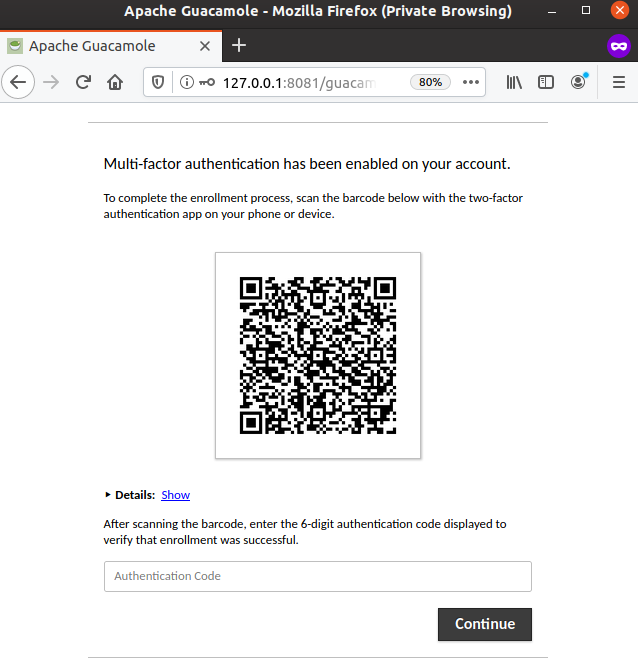
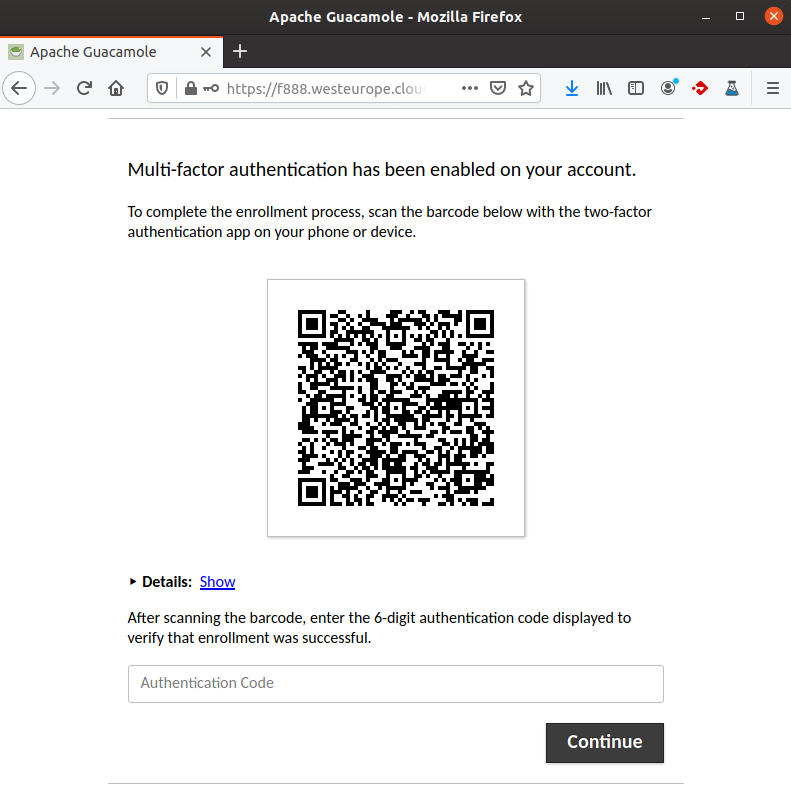
Updated README and change screenshots

diff --git a/README.md b/README.md
@@ -1,7 +1,7 @@
 
 # WorkFromHome-with-inlets
 
-*"Navigate in any webbrowser to https://desktops.yourcompany.com and logon with your corporate Active Directory account (including 2-FA) to access your Windows desktops"*  
+*"Navigate in any webbrowser to [https://yourcompany.westeurope.cloudapp.azure.com](https://yourcompany.westeurope.cloudapp.azure.com) and logon with your corporate Active Directory account (including 2-FA) to access your Windows desktops"*  
 
 If you want your users to be able to access for example Windows PCs or Windows RDS, which are located on your corporate network from anywhere in the world using any HTML5 capable webbrowser, then this is right for.   
 If your are a homelab enthusiast and want your homelab to be accessible from any where from any device using HTML5, then this maybe worth to have a look.
@@ -67,9 +67,6 @@ sudo -s
 Point your preferred webbrowser to the DNS host name, which you have configured as `FQDN_HOST_NAME` in your .env file. 
 Example: [https://yourcompany.westeurope.cloudapp.azure.com](https://yourcompany.westeurope.cloudapp.azure.com)  
 The default username is `guacadmin` and password is `guacadmin`. 
-
-(If you currently can not access your external `FQDN_HOST_NAME` from internally, you can verify it from internally using http://ubuntu-internal-ip:8081/guacamole   
-Alternatively add a hosts file entry, which points your `FQDN_HOST_NAME` to the internal IP of your Ubuntu Server -> [Beginner-Guide-to-edit-your-hosts-file](https://www.howtogeek.com/howto/27350/beginner-geek-how-to-edit-your-hosts-file/)) 
 
 After entering credentials your prompted to scan the QR-Code, with a compatible TOTP App on your mobile phone.   
 [**Google Authenticator**](https://play.google.com/store/apps/details?id=com.google.android.apps.authenticator2&hl=en) works good.
